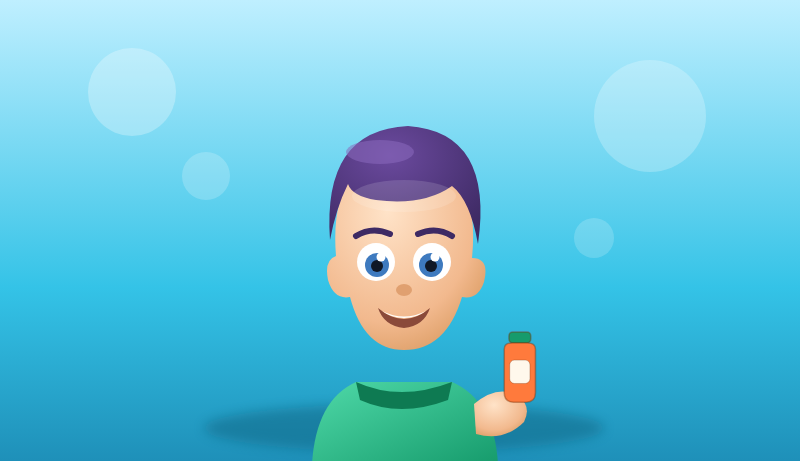
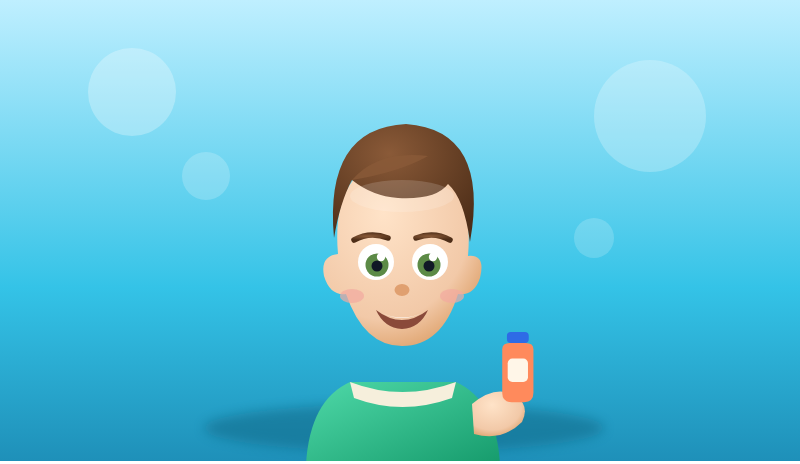
One standard character rendered through every cartoon style
The Cartoon Avatar cover now stars a single standard character (brown swoop,
green shirt, orange product bottle) with style swatches orbiting him, and
every style tile renders the SAME character — same hair, shirt, cheeks and
bottle — through that style's world (anime meadow, VHS sunset, 3D gloss,
blister pack, brick build, vintage street, puppet stage, clay set). Merchants
see instantly: same you, different style. Covers cache-busted to v=3.

Claude-Session: https://claude.ai/code/session_018dWnRGmqfdAj4QNYg7kv3W

diff --git a/app/routes/app.studio.tsx b/app/routes/app.studio.tsx
@@ -28,7 +28,7 @@ type CType = "avatar" | "highlight" | "cartoon" | "jingle";
 const CONTENT_TYPES: { key: CType; name: string; icon: string; cover: string; sub: string; live: boolean }[] = [
   { key: "avatar", name: "Avatar AI", icon: "🧑💼", cover: "/content-types/av.png?v=2", sub: "A real-looking presenter talks it up", live: true },
   { key: "highlight", name: "Product Highlight", icon: "🎬", cover: "/content-types/ph.png?v=2", sub: "Cinematic motion, no presenter", live: true },
-  { key: "cartoon", name: "Cartoon Avatar", icon: "🎨", cover: "/content-types/ct.png?v=2", sub: "Your presenter & product, redrawn viral-style", live: true },
+  { key: "cartoon", name: "Cartoon Avatar", icon: "🎨", cover: "/content-types/ct.png?v=3", sub: "Your presenter & product, redrawn viral-style", live: true },
   { key: "jingle", name: "Earworm", icon: "🎵", cover: "/content-types/ew.png?v=2", sub: "A sung ad that sticks — 2000s commercial energy", live: true },
 ];
 
@@ -36,14 +36,14 @@ const CONTENT_TYPES: { key: CType; name: string; icon: string; cover: string; su
 // descriptively (no IP names). Keys must match CARTOON_RECIPES in
 // cartoon-ad-pipeline.server.ts.
 const CARTOON_STYLES: { key: string; name: string; emoji: string; tint: string; cover: string; blurb: string }[] = [
-  { key: "dreamanime", name: "Dream Anime", emoji: "🌿", tint: "#6FAF7C", cover: "/content-types/cartoon/dreamanime.png?v=2", blurb: "Your presenter as a soft painterly anime character — the style the whole internet shares" },
-  { key: "toyfigure", name: "Boxed Figure", emoji: "🧍", tint: "#F4B400", cover: "/content-types/cartoon/toyfigure.png?v=2", blurb: "Presenter & product as a collectible figure in the pack — the viral format" },
-  { key: "brick", name: "Brick Build", emoji: "🧱", tint: "#D93A2B", cover: "/content-types/cartoon/brick.png?v=2", blurb: "Everything rebuilt from toy bricks, stop-motion style" },
-  { key: "pixar", name: "3D Toon", emoji: "🧸", tint: "#34C3E7", cover: "/content-types/cartoon/pixar.png?v=2", blurb: "Big-studio 3D character film — glossy and cinematic" },
-  { key: "retroanime", name: "Retro Anime", emoji: "📼", tint: "#E5397D", cover: "/content-types/cartoon/retroanime.png?v=2", blurb: "90s VHS anime — sunset palettes and speed lines" },
-  { key: "vintagetoon", name: "Vintage Toon", emoji: "🎪", tint: "#E7A33C", cover: "/content-types/cartoon/vintagetoon.png?v=2", blurb: "Playful vintage 2D — hand-inked, storybook warmth" },
-  { key: "puppet", name: "Felt Puppet", emoji: "🧦", tint: "#8E5BD9", cover: "/content-types/cartoon/puppet.png?v=2", blurb: "Fuzzy felt and googly eyes — puppet-show charm" },
-  { key: "clay", name: "Claymation", emoji: "🎭", tint: "#B08526", cover: "/content-types/cartoon/clay.png?v=2", blurb: "Hand-molded stop-motion, cozy and tactile" },
+  { key: "dreamanime", name: "Dream Anime", emoji: "🌿", tint: "#6FAF7C", cover: "/content-types/cartoon/dreamanime.png?v=3", blurb: "Your presenter as a soft painterly anime character — the style the whole internet shares" },
+  { key: "toyfigure", name: "Boxed Figure", emoji: "🧍", tint: "#F4B400", cover: "/content-types/cartoon/toyfigure.png?v=3", blurb: "Presenter & product as a collectible figure in the pack — the viral format" },
+  { key: "brick", name: "Brick Build", emoji: "🧱", tint: "#D93A2B", cover: "/content-types/cartoon/brick.png?v=3", blurb: "Everything rebuilt from toy bricks, stop-motion style" },
+  { key: "pixar", name: "3D Toon", emoji: "🧸", tint: "#34C3E7", cover: "/content-types/cartoon/pixar.png?v=3", blurb: "Big-studio 3D character film — glossy and cinematic" },
+  { key: "retroanime", name: "Retro Anime", emoji: "📼", tint: "#E5397D", cover: "/content-types/cartoon/retroanime.png?v=3", blurb: "90s VHS anime — sunset palettes and speed lines" },
+  { key: "vintagetoon", name: "Vintage Toon", emoji: "🎪", tint: "#E7A33C", cover: "/content-types/cartoon/vintagetoon.png?v=3", blurb: "Playful vintage 2D — hand-inked, storybook warmth" },
+  { key: "puppet", name: "Felt Puppet", emoji: "🧦", tint: "#8E5BD9", cover: "/content-types/cartoon/puppet.png?v=3", blurb: "Fuzzy felt and googly eyes — puppet-show charm" },
+  { key: "clay", name: "Claymation", emoji: "🎭", tint: "#B08526", cover: "/content-types/cartoon/clay.png?v=3", blurb: "Hand-molded stop-motion, cozy and tactile" },
 ];
 
 // Wearable products should be modeled (worn) by the presenter, not held.
